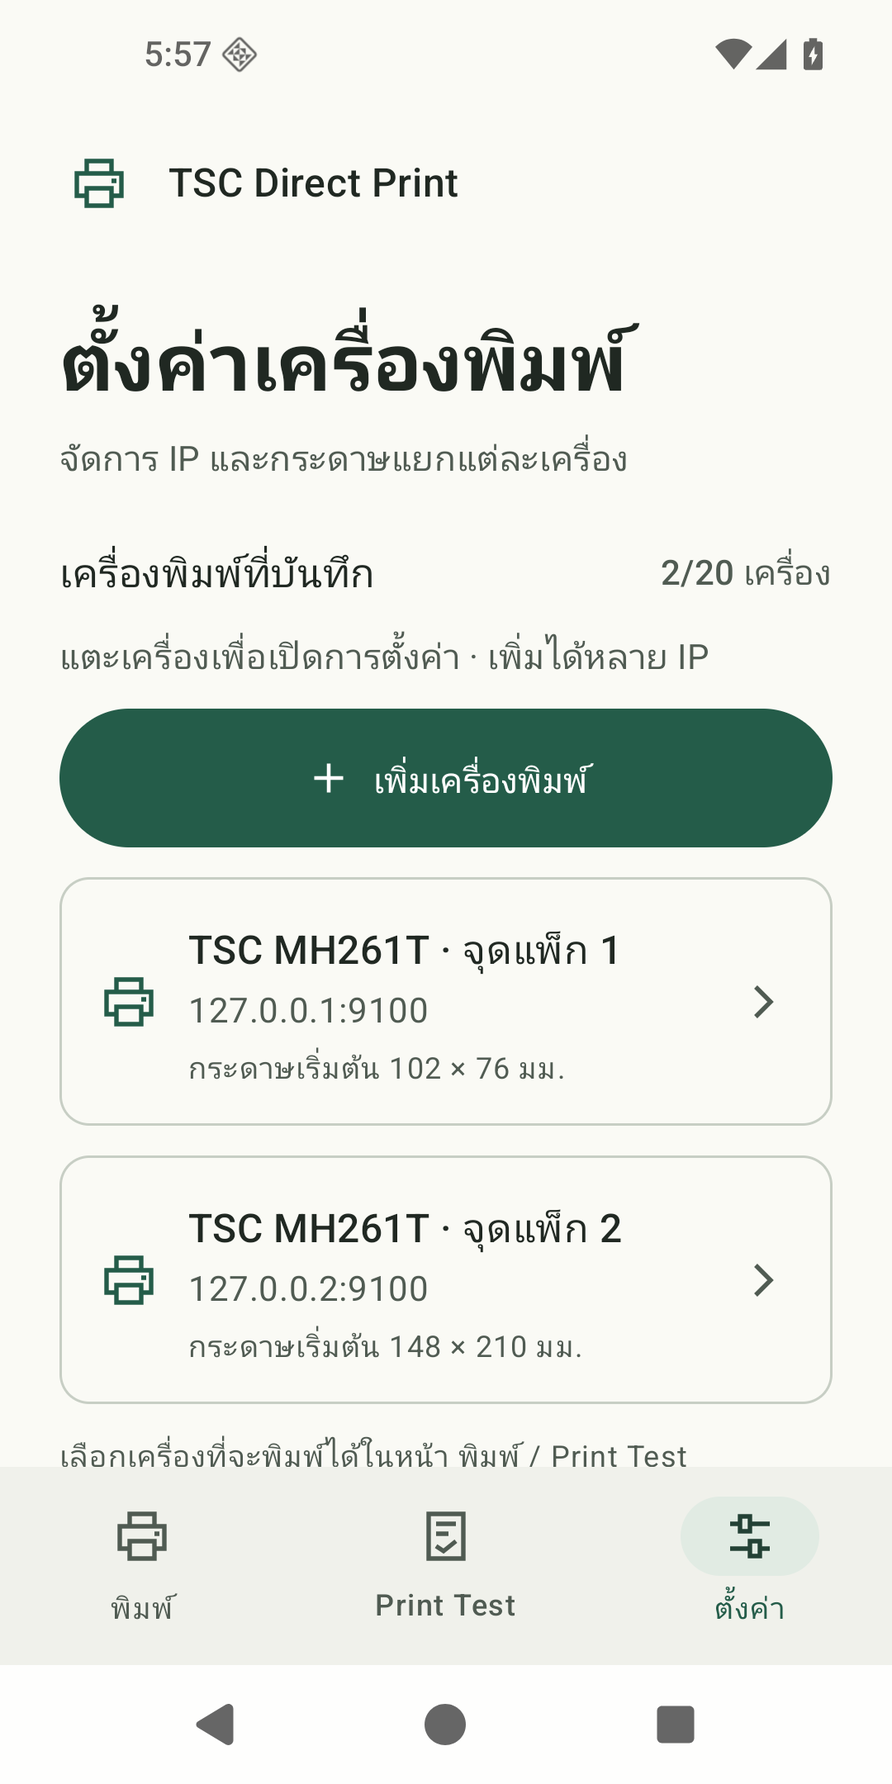
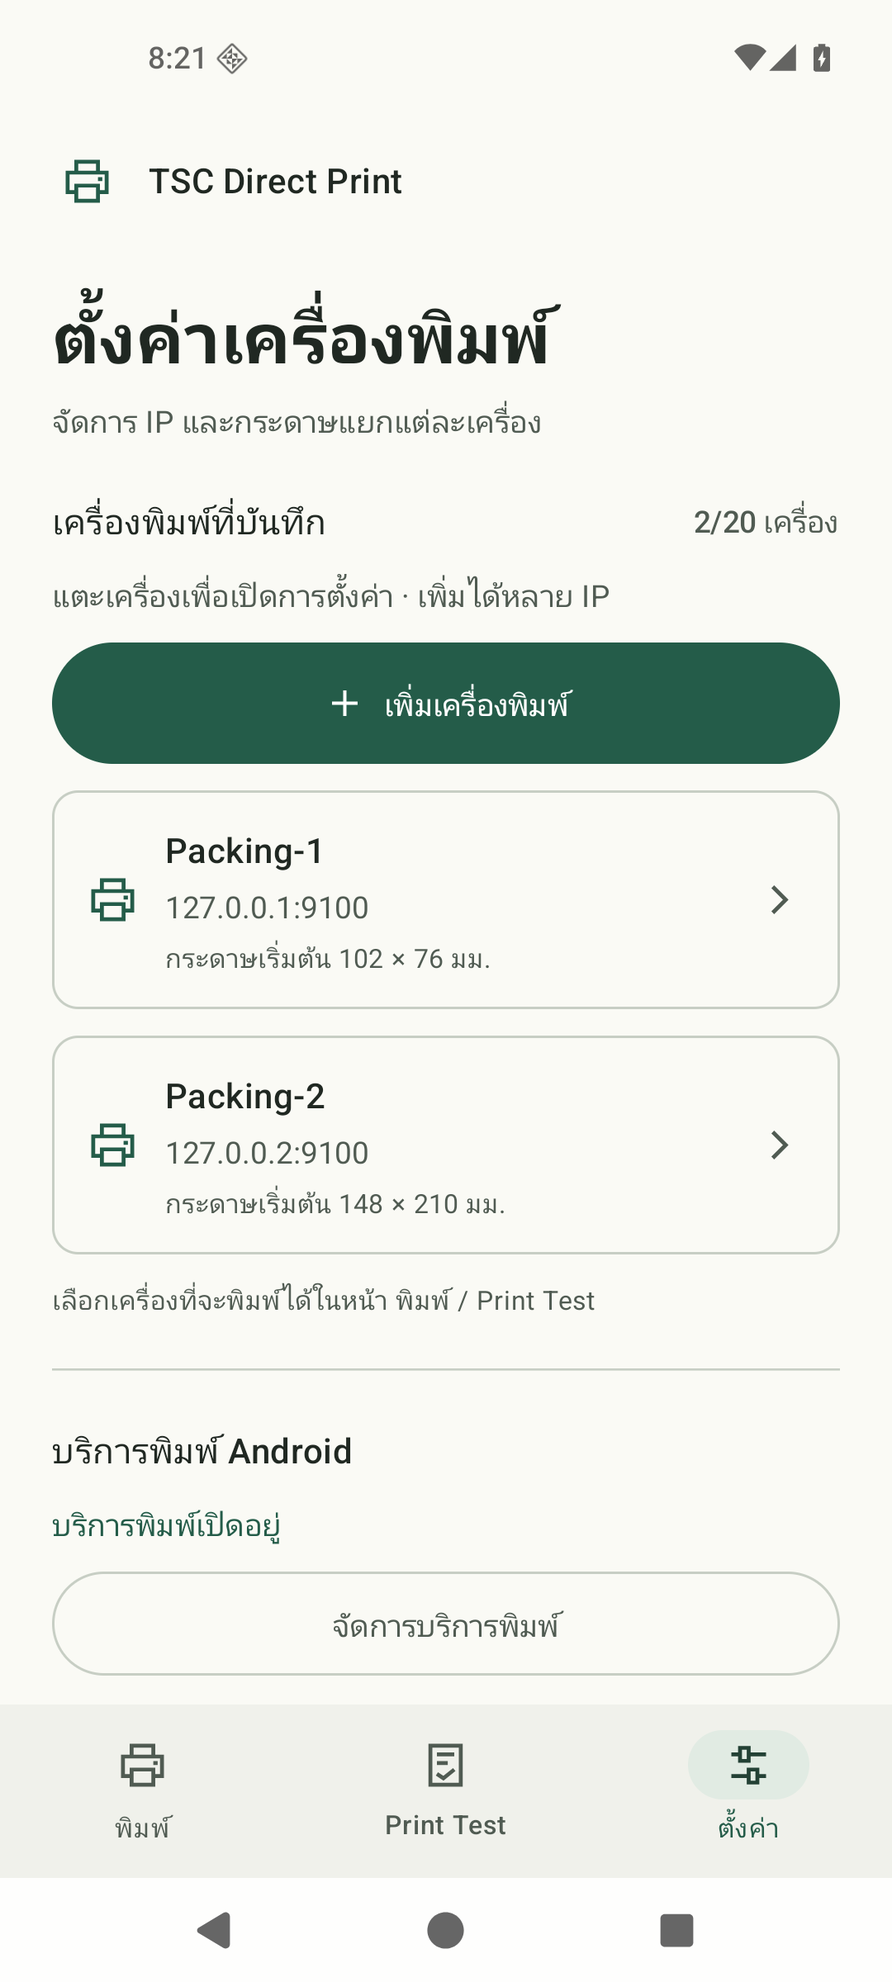
docs: refresh 1.3.4 screenshots and update instructions

diff --git a/README.md b/README.md
@@ -4,22 +4,24 @@
 
 An Android Print Service that sends PDF labels directly to a TSC MH261T over TCP 9100, with multiple named printers, print tests and custom paper sizes. [English guide](docs/README.en.md).
 
-**เวอร์ชันซอร์สปัจจุบัน: 1.3.4** — เพิ่มตรวจสอบและดาวน์โหลดอัปเดตจาก GitHub Releases ในหน้า ตั้งค่า ดูรายละเอียดที่ [Changelog](CHANGELOG.md#134--2026-10-15)
+**เวอร์ชันที่เผยแพร่: [1.3.4](https://github.com/FlintsLabs/tsc-android-print/releases/tag/v1.3.4)** — เพิ่มตรวจสอบและดาวน์โหลดอัปเดตจาก GitHub Releases ในหน้า ตั้งค่า ดูรายละเอียดที่ [Changelog](CHANGELOG.md#134--2026-10-15)
 
 [![Android 13+](https://img.shields.io/badge/Android-13%2B-245B48)](app/src/main/AndroidManifest.xml)
 [![MIT License](https://img.shields.io/badge/License-MIT-245B48)](LICENSE)
 [![Android build](https://github.com/FlintsLabs/tsc-android-print/actions/workflows/android.yml/badge.svg)](https://github.com/FlintsLabs/tsc-android-print/actions/workflows/android.yml)
 
-**[ดาวน์โหลด APK](https://github.com/FlintsLabs/tsc-android-print/releases/latest)** · [ติดตั้ง](#ติดตั้งและเริ่มใช้งาน) · [แก้ปัญหา](docs/troubleshooting.md) · [Build](docs/building.md) · [Changelog](CHANGELOG.md)
+**[ดาวน์โหลด APK 1.3.4](https://github.com/FlintsLabs/tsc-android-print/releases/download/v1.3.4/TSC-Direct-Print-1.3.4.apk)** · [SHA256SUMS.txt](https://github.com/FlintsLabs/tsc-android-print/releases/download/v1.3.4/SHA256SUMS.txt) · [ติดตั้ง](#ติดตั้งและเริ่มใช้งาน) · [แก้ปัญหา](docs/troubleshooting.md) · [Build](docs/building.md) · [Changelog](CHANGELOG.md)
 
 <p align="center">
-  <img src="docs/images/print.png" width="250" alt="หน้าพิมพ์ PDF" />
-  <img src="docs/images/print-test.png" width="250" alt="หน้า Print Test พร้อมตัวอย่างฉลาก" />
-  <img src="docs/images/settings.png" width="250" alt="รายการเครื่องพิมพ์ แตะเพื่อเปิดตั้งค่ารายเครื่อง" />
-  <img src="docs/images/settings-detail.png" width="250" alt="หน้าตั้งค่ารายเครื่อง แก้ไข IP พอร์ตและกระดาษเริ่มต้น" />
+  <img src="docs/images/print.png" width="235" alt="1.3.4: หน้าพิมพ์ PDF พร้อมเลือกเครื่องพิมพ์และกระดาษ" />
+  <img src="docs/images/print-test.png" width="235" alt="1.3.4: หน้า Print Test พร้อมตัวอย่างฉลาก" />
+  <img src="docs/images/settings.png" width="235" alt="1.3.4: รายการเครื่องพิมพ์พร้อมกระดาษเริ่มต้นแยกต่อเครื่อง" />
+  <img src="docs/images/settings-detail.png" width="235" alt="1.3.4: หน้าตั้งค่ารายเครื่อง แก้ไขชื่อ IP พอร์ตและกระดาษ" />
+  <img src="docs/images/custom-paper.png" width="235" alt="1.3.4: กรอกขนาดกระดาษเองเป็นมิลลิเมตร" />
+  <img src="docs/images/app-update.png" width="235" alt="1.3.4: ตรวจสอบเวอร์ชันล่าสุดจาก GitHub Releases ในแอป" />
 </p>
 
-ภาพหน้า Print / Print Test จาก 1.2.0 และหน้ารายการ / ตั้งค่ารายเครื่องจาก 1.3.3 บน Android emulator; IP ในภาพเป็นตัวอย่าง ต้องตั้งให้ตรงกับเครื่องพิมพ์ของคุณ ภาพ system Print ใช้ loopback receiver สำหรับ preview
+ภาพชุดนี้จับจาก **APK Release 1.3.4 บน Android 16 / API 36 Emulator** ใช้ปลายทางจำลอง `127.0.0.1` / `127.0.0.2` เพื่อแสดงหลายเครื่องและกระดาษเริ่มต้นต่างกัน ต้องเปลี่ยนเป็น IP จริงของคุณ ภาพ Android Print เป็น preview ผ่านตัวรับจำลอง และไม่มีการพิมพ์ฉลากจริงระหว่างจับภาพ ดู [รายละเอียดภาพ](docs/images/README.md)
 
 ## ใหม่ใน 1.3.4
 
@@ -58,7 +60,7 @@ An Android Print Service that sends PDF labels directly to a TSC MH261T over TCP
 
 1. ดาวน์โหลด `TSC-Direct-Print-<version>.apk` จาก **[Releases](https://github.com/FlintsLabs/tsc-android-print/releases/latest)**
 2. เปิด APK บน Android 13+ และอนุญาตติดตั้งจากแอปที่เปิดไฟล์เมื่อ Android ขอ
-3. เปิด **TSC Direct Print → ตั้งค่า → แตะชื่อเครื่องพิมพ์** กรอกชื่อ / IPv4 / พอร์ต / กระดาษเริ่มต้น แล้วกด **บันทึกเครื่องพิมพ์** ค่าเดิม `192.168.70.37:9100` จะถูกเก็บไว้เมื่ออัปเดต
+3. เปิด **TSC Direct Print → ตั้งค่า → แตะชื่อเครื่องพิมพ์** กรอกชื่อ / IPv4 / พอร์ต / กระดาษเริ่มต้น แล้วกด **บันทึกเครื่องพิมพ์** การติดตั้งใหม่มีค่าเริ่มต้น `192.168.70.37:9100`; การอัปเดตทับเก็บค่าที่คุณบันทึกไว้
 4. แตะชื่อเครื่องอีกครั้งแล้วกด **ตรวจการเชื่อมต่อ** เพื่อตรวจ IP/พอร์ตของเครื่องในหน้ารายละเอียด โดยยังไม่ส่งฉลาก
 5. กลับ **รายการเครื่องพิมพ์ → จัดการบริการพิมพ์** แล้วเปิด **TSC Direct Print** ในหน้าการพิมพ์ของ Android
 6. เลือกเครื่องและขนาดในหน้า **พิมพ์ / Print Test** ให้ตรงกับฉลาก แล้วเปิดเอกสารและกด **Print → ชื่อเครื่องพิมพ์ที่บันทึก**
@@ -66,7 +68,7 @@ An Android Print Service that sends PDF labels directly to a TSC MH261T over TCP
 
 อนุญาตสิทธิ์เครือข่ายภายในเมื่อ Android รุ่นที่ใช้งานขอ ชื่อเมนูระบบอาจต่างกันตามยี่ห้อ
 
-ตรวจหมายเลขเวอร์ชันของ APK ใน Releases ก่อนดาวน์โหลด หากยังไม่มี 1.3.4 ให้ [build จากซอร์ส](docs/building.md) การ push ซอร์สขึ้น GitHub ไม่ได้อัปโหลด APK เป็น Release อัตโนมัติ
+มี [Release 1.3.4](https://github.com/FlintsLabs/tsc-android-print/releases/tag/v1.3.4) พร้อม APK และ checksum แล้ว ตรวจไฟล์ก่อนติดตั้งบน macOS ด้วย `shasum -a 256 -c SHA256SUMS.txt` โดยวางสองไฟล์ในโฟลเดอร์เดียวกัน การ push ซอร์สอย่างเดียวไม่เผยแพร่ APK อัตโนมัติ
 
 ไม่ต้องเพิ่ม IP ผ่าน **System / Default Print Service → Add printer by IP**: ให้เลือกบริการ **TSC Direct Print** ที่ติดตั้งจาก APK นี้
 
@@ -83,6 +85,8 @@ An Android Print Service that sends PDF labels directly to a TSC MH261T over TCP
 ## หลายเครื่องพิมพ์
 
 เพิ่มเครื่องที่ **ตั้งค่า → เพิ่มเครื่องพิมพ์** กรอกชื่อ, IPv4, พอร์ต (ปกติ 9100) และกระดาษเริ่มต้น บันทึกได้ 20 เครื่อง โดย IP+พอร์ตต้องไม่ซ้ำกัน ตั้งแต่ 1.3.3 หน้า Settings แสดงรายการ **เครื่องพิมพ์ที่บันทึก** พร้อมชื่อ IP/พอร์ต กระดาษเริ่มต้น และลูกศรเข้าไปตั้งค่ารายเครื่อง การเปิดหรือบันทึกค่าเครื่องอื่นไม่เปลี่ยนเครื่องที่เลือกพิมพ์ไว้ ส่วนหน้า **พิมพ์** และ **Print Test** เลือกจากช่อง **เลือกเครื่องพิมพ์** ที่มีลูกศรลง ค่าเริ่มต้นกระดาษแยกกันในแต่ละเครื่อง และขนาดกระดาษที่เพิ่มเองใช้ร่วมกันได้
+
+<img src="docs/images/printer-selector.png" width="300" alt="เมนูเลือกเครื่องพิมพ์ 2 เครื่อง พร้อมแสดง IP และขนาดกระดาษของแต่ละเครื่อง" />
 
 **หน้าต่าง Print ของ Android เป็นผู้เลือกปลายทางจริง** ระบบอาจจำเครื่องจากงานก่อน จึงต้องเลือก/ตรวจชื่อและ IP อีกครั้งก่อนยืนยัน การเลือกในแอปโหลดค่าเริ่มต้นของเครื่องนั้น แต่ไม่ได้บังคับปลายทางของหน้าต่าง Android ส่วนปุ่มตรวจการเชื่อมต่อและพิมพ์ทดสอบในหน้ารายละเอียดใช้ค่าที่บันทึกไว้ของเครื่องที่กำลังดู
 
@@ -141,13 +145,19 @@ An Android Print Service that sends PDF labels directly to a TSC MH261T over TCP
 
 ## อัปเดตแอป
 
-ตั้งแต่ 1.3.4 เปิด **ตั้งค่า → อัปเดตแอป → ตรวจสอบอัปเดต** แล้วดาวน์โหลดรุ่นใหม่ เมื่อ Android ขอให้อนุญาตติดตั้งจากแอปนี้ ให้เปิดสิทธิ์ กลับแอป แล้วกด **ติดตั้งอัปเดต** และยืนยัน **อัปเดต** ในหน้าต่างระบบ รอให้งานพิมพ์จบก่อนติดตั้ง ไม่ต้องถอนแอปเดิมหรือใช้ ADB สำหรับการอัปเดตรอบถัดไป
+ติดตั้ง **1.3.4 ขึ้นไปครั้งแรก** ผ่าน APK หรือ ADB ก่อน แล้วรุ่นถัดไปอัปเดตจากมือถือได้:
 
-การตรวจ/ดาวน์โหลดต้องใช้อินเทอร์เน็ตไป GitHub ส่วนการพิมพ์ยังส่งตรงภายใน LAN ตามเดิม ดู [วิธีอัปเดตและแก้ปัญหา](docs/updating.md)
+1. รอให้งานพิมพ์เสร็จ เปิด **ตั้งค่า** แล้วเลื่อนลงไปที่ **อัปเดตแอป**
+2. กด **ตรวจสอบอัปเดต** หากมีรุ่นใหม่ ให้กด **ดาวน์โหลด <version>**
+3. รอแอปตรวจ SHA-256, package, version และลายเซ็นให้ตรงกับแอปเดิม
+4. ครั้งแรกกด **อนุญาตติดตั้งจากแอปนี้** เปิดสิทธิ์ใน Android แล้วกลับแอป
+5. กด **ติดตั้งอัปเดต** และยืนยัน **อัปเดต / Update** ในหน้าต่าง Android
+
+เก็บข้อมูลเครื่องพิมพ์และกระดาษเดิมโดยไม่ถอนแอป การตรวจ/ดาวน์โหลดต้องใช้อินเทอร์เน็ตไป GitHub ส่วนการพิมพ์ยังส่งตรงภายใน LAN ตามเดิม เมื่อรุ่นที่ติดตั้งเท่ากับ GitHub Latest จะไม่เสนอให้ดาวน์โหลดซ้ำ ดู [คู่มือและการแก้ปัญหาอัปเดต](docs/updating.md)
 
 ## สำหรับผู้พัฒนา
 
-ใช้ **JDK 21**, **Android SDK Platform 37**, **Build Tools 36.0.0** และ Gradle wrapper ที่รวมไว้
+ใช้ **Python 3**, **JDK 21**, **Android SDK Platform 37**, **Build Tools 36.0.0** และ Gradle wrapper ที่รวมไว้
 
 ```sh
 git clone https://github.com/FlintsLabs/tsc-android-print.git

diff --git a/docs/images/README.md b/docs/images/README.md
@@ -1,0 +1,22 @@
+# ภาพหน้าจอประกอบคู่มือ
+
+ภาพหน้าจอ UI ชุดปัจจุบันจับวันที่ **15 ต.ค. 2026** จาก **APK Release 1.3.4 (versionCode 9)** บน Android 16 / API 36 Emulator ธีมสว่าง ภาษาไทย ขนาด 1080 × 2400 พิกเซล / 420 dpi / font scale 1.0 บางภาพเลื่อนหน้าเพื่อให้เห็นปุ่มหรือ preview ที่อธิบาย ไม่มีการแก้หน้าตาหรือข้อความในภาพหลังจับหน้าจอ
+
[1 lines of base64/hex data omitted]
+
+| ภาพ | สิ่งที่แสดง |
+| --- | --- |
+| [print.png](print.png) | หน้า Print เลือกเครื่องและกระดาษก่อนเลือก PDF |
+| [print-test.png](print-test.png) | หน้า Print Test และตัวอย่างฉลาก |
+| [printer-selector.png](printer-selector.png) | เมนูเลือกเครื่องพิมพ์ พร้อม IP และกระดาษเริ่มต้นของแต่ละเครื่อง |
+| [settings.png](settings.png) | รายการเครื่องพิมพ์ 2 เครื่อง แตะเพื่อเปิดตั้งค่ารายเครื่อง |
+| [settings-detail.png](settings-detail.png) | ชื่อ IP พอร์ต และกระดาษเริ่มต้นของเครื่องที่กำลังดู |
+| [custom-paper.png](custom-paper.png) | กรอกกระดาษตัวอย่าง 100.5 × 150.2 มม.; ยังไม่ได้กดบันทึก |
+| [app-update.png](app-update.png) | ตรวจ GitHub Latest หลังเผยแพร่ 1.3.4 แล้ว เวอร์ชันเท่ากันจึงไม่เสนอให้ดาวน์โหลดซ้ำ |
+| [system-print.png](system-print.png) | Preview ใน Android Print dialog ก่อนกดยืนยันพิมพ์ |
+
+โปรไฟล์ **Packing-1** (`127.0.0.1:9100`, 102 × 76 มม.) และ **Packing-2** (`127.0.0.2:9100`, 148 × 210 มม.) เป็นข้อมูลสาธิตบน Emulator ไม่ใช่ IP สำหรับตั้งค่าที่หน้างาน การจับ preview ของระบบใช้ตัวรับจำลองผ่าน ADB reverse และไม่กดยืนยันพิมพ์ ไม่มีการส่งฉลากไปเครื่องพิมพ์จริง ภาพ UI/preview ไม่ใช่หลักฐานการพิมพ์ลงกระดาษ
+
+[test-label.png](test-label.png) เป็นภาพฉลากที่ render สำหรับคู่มือเดิม เก็บไว้ประกอบคำอธิบายกรอบ/QR/ข้อความสีขาว ไม่ใช่ภาพถ่ายฉลากจริง และไม่ได้จับใหม่ในรอบนี้
+
+หากจับภาพใหม่ ให้ใช้ Emulator แยกจากเครื่องที่ใช้งานจริง บันทึกเวอร์ชันและขนาดจอ คงชื่อไฟล์เดิมเมื่อหน้าที่เดิม และตรวจทั้ง PNG กับข้อความใน UI tree ก่อน commit

diff --git a/docs/README.en.md b/docs/README.en.md
@@ -4,11 +4,21 @@
 
 An independent Android Print Service for **TSC MH261T, 203 DPI**. It converts PDF pages to monochrome TSPL bitmaps and sends them directly over **configurable TCP endpoints (default 9100)**. A Mac, USB cable or print server is not needed. The UI is currently Thai, with light/dark themes and adaptive navigation.
 
-**Current source version: 1.3.4 (versionCode 9).** Settings now includes manual GitHub Release checks, APK download and verified native installation. See the [changelog](../CHANGELOG.md) and [verification](verification.md). A source push does not automatically publish an APK.
+**Published version: [1.3.4 (versionCode 9)](https://github.com/FlintsLabs/tsc-android-print/releases/tag/v1.3.4).** Settings now includes manual GitHub Release checks, APK download and verified native installation. See the [changelog](../CHANGELOG.md) and [verification](verification.md). A source push does not automatically publish an APK.
+
+[Download APK 1.3.4](https://github.com/FlintsLabs/tsc-android-print/releases/download/v1.3.4/TSC-Direct-Print-1.3.4.apk) · [SHA256SUMS.txt](https://github.com/FlintsLabs/tsc-android-print/releases/download/v1.3.4/SHA256SUMS.txt)
+
+<p align="center">
+  <img src="images/print.png" width="235" alt="1.3.4: Print screen with printer and paper selection" />
+  <img src="images/settings.png" width="235" alt="1.3.4: Saved printers with independent paper defaults" />
+  <img src="images/app-update.png" width="235" alt="1.3.4: Manual GitHub Release update check" />
+</p>
+
+Screenshots show the signed 1.3.4 Release APK on an Android 16 / API 36 emulator. Loopback IPs are demonstration endpoints; replace them with actual printer IPs. Android Print images show a loopback preview, with no physical print submitted. See the [full screenshot set](../README.md) and [capture details](images/README.md).
 
 ## Install and connect
 
-1. Download `TSC-Direct-Print-<version>.apk` from Releases and install it on **Android 13+**. Allow installation from the app opening the file when Android requests it.
+1. Download the APK and checksum from the same Release. On macOS, verify with `shasum -a 256 -c SHA256SUMS.txt`, then install on **Android 13+**. Allow installation from the app opening the file when Android requests it.
 2. Open **ตั้งค่า → แตะชื่อเครื่องพิมพ์** (Settings → tap the printer row), enter its name, IPv4, port and default paper, then press **บันทึกเครื่องพิมพ์** (Save printer). Replace the bundled default 192.168.70.37 with your own printer address.
 3. Open that printer's row again and press **ตรวจการเชื่อมต่อ** (Check connection). This checks the saved viewed endpoint without printing.
 4. Return to **รายการเครื่องพิมพ์** (Printer list), press **จัดการบริการพิมพ์** (Manage print services) and turn **TSC Direct Print** on in Android Settings.

diff --git a/docs/updating.md b/docs/updating.md
@@ -13,7 +13,7 @@
 
 <img src="images/app-update.png" width="300" alt="ส่วนอัปเดตแอปในหน้าตั้งค่า พร้อมเวอร์ชันปัจจุบันและปุ่มตรวจสอบอัปเดต" />
 
-ภาพจาก 1.3.4 บน API 36 emulator วันที่ 15 ต.ค. 2026; ขณะตรวจ GitHub Latest ยังเป็น 1.3.3 จึงไม่เสนอให้อัปเดตลงรุ่นเก่า
+ภาพใหม่จาก APK Release 1.3.4 บน API 36 Emulator วันที่ 15 ต.ค. 2026; GitHub Latest เป็น 1.3.4 เช่นเดียวกับรุ่นที่ติดตั้ง จึงไม่มีปุ่มดาวน์โหลดซ้ำ ดู [รายละเอียดภาพ](images/README.md)
 
 ## อินเทอร์เน็ตและการตรวจไฟล์
 
